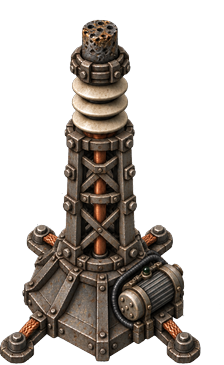
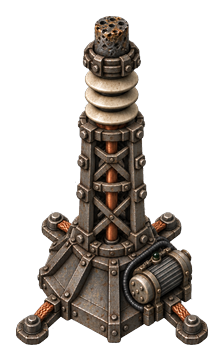
Arc mast: cut the plate to exactly 3.00 tiles so a row stops overlapping
The 3x3 box was necessary and not sufficient. 3.14 tiles of art on a 3
tile pitch still overlaps by 0.14 tiles -- about a quarter of a foot pad
-- and a second screenshot showed the pads still interleaving. Vanilla
tolerates 0.25 tiles on its collector because the overhang there is a
soft tapering skirt; ours is a pair of hard bolted pads, and two of
those interpenetrating reads as a bug however small the number is.

Measuring that turned up the real fault. v11-idle.png carries 95 columns
of near-invisible fringe down its right side, holding one speck above
alpha 20 and nothing else, and trimmed() cropped on getbbox(), which
counts any pixel with any alpha. The crop was 909 px wide where the
visible building was 814, so scaling onto a 224 px canvas put the mast
in 814/909 of the space and shoved it left:

  before  content x 0..201, centre 100.5 vs canvas centre 112,
          alpha 255 at x=0 -- the left foot cut off mid-bolt
  after   content x 16..208, centre 112.0, alpha 0 at both edges

That is why the whole overhang sat on one side and why the left foot had
no rim. solid_bbox() now requires a row or column to carry 8 pixels above
alpha 20 before it counts; a plain threshold will not do, since the
fringe holds a speck that survives any threshold. derive-glow.py carries
the same function because the glow placement is measured with it.

With the trim fixed the plate is cut to 192 source px -- exactly 3.00
[…]

diff --git a/tools/process-building-art.py b/tools/process-building-art.py
@@ -70,13 +70,47 @@ def dekey_checkerboard(im, tol=10):
     return im
 
 
-def trimmed(im):
-    """Crop to the alpha bounding box."""
+def solid_bbox(im, alpha=20, min_run=8):
+    """Bounding box of the content you can actually see.
+
+    `getbbox()` answers "any pixel with any alpha at all", and a generator's
+    output is not that clean: v11-idle.png carries 95 columns of fringe down its
+    right side holding a single speck above alpha 20 and nothing else. Cropping
+    to that squeezed the visible mast into 814/909 of its canvas and pushed it
+    hard against the left edge, where the foot pad was cut off mid-bolt at alpha
+    255 and the whole building drew 0.18 tiles left of its own tile.
+
+    So require a row or column to carry `min_run` pixels above `alpha` before it
+    counts as content. Thin real geometry is safe -- min_run is under 1% of a
+    plate's height -- and specks are not.
+    """
     if im.mode != "RGBA":
         im = im.convert("RGBA")
-    box = im.getchannel("A").getbbox()
+    a = im.getchannel("A")
+    w, h = a.size
+    px = a.load()
+    cols = [x for x in range(w)
+            if sum(1 for y in range(h) if px[x, y] > alpha) >= min_run]
+    rows = [y for y in range(h)
+            if sum(1 for x in range(w) if px[x, y] > alpha) >= min_run]
+    if not cols or not rows:
+        return None
+    return (cols[0], rows[0], cols[-1] + 1, rows[-1] + 1)
+
+
+def trimmed(im):
+    """Crop to the visible content, warning if that differs from the raw box."""
+    if im.mode != "RGBA":
+        im = im.convert("RGBA")
+    box = solid_bbox(im)
     if not box:
         sys.exit("the image is fully transparent -- nothing to process")
+    raw = im.getchannel("A").getbbox()
+    slack = max(abs(box[i] - raw[i]) for i in range(4))
+    if slack > 4:
+        print(f"  note  trimmed on visible content, not raw alpha: "
+              f"{raw[2] - raw[0]}x{raw[3] - raw[1]} -> "
+              f"{box[2] - box[0]}x{box[3] - box[1]} ({slack} px of fringe)")
     return im.crop(box)
 
 

diff --git a/tools/derive-glow.py b/tools/derive-glow.py
@@ -25,6 +25,28 @@ import sys
 from PIL import Image, ImageChops, ImageFilter
 
 
+def solid_bbox(im, alpha=20, min_run=8):
+    """Bounding box of the content you can actually see.
+
+    Must stay in step with process-building-art.py's copy: the placement this
+    measures has to be the one base.png was cut with, or the glow lands
+    somewhere the plate is not. See that file for why raw `getbbox()` is not
+    good enough.
+    """
+    if im.mode != "RGBA":
+        im = im.convert("RGBA")
+    a = im.getchannel("A")
+    w, h = a.size
+    px = a.load()
+    cols = [x for x in range(w)
+            if sum(1 for y in range(h) if px[x, y] > alpha) >= min_run]
+    rows = [y for y in range(h)
+            if sum(1 for x in range(w) if px[x, y] > alpha) >= min_run]
+    if not cols or not rows:
+        return None
+    return (cols[0], rows[0], cols[-1] + 1, rows[-1] + 1)
+
+
 def placement(im, width, height, top_margin):
     """Work out the trim/scale/offset to use, as numbers rather than a picture.
 
@@ -32,7 +54,7 @@ def placement(im, width, height, top_margin):
     is measured off still lands exactly where base.png did -- but returned
     instead of applied, so the lit plate can be given the identical transform.
     """
-    box = im.convert("RGBA").getchannel("A").getbbox()
+    box = solid_bbox(im)
     if not box:
         sys.exit("fully transparent input")
     tw, th = box[2] - box[0], box[3] - box[1]

diff --git a/graphics/building-spec-arc-mast.md b/graphics/building-spec-arc-mast.md
@@ -79,7 +79,8 @@ pack can exist before the surface has power.
 **Tile Size:**
 `3×3` selection over a `2.8×2.8` collision. Most of this building is still
 drawn above its footprint — the sprite is `3.5 × 5.4` tiles — but the *base
-plate* is 3.14 tiles across, and it has to fit between neighbours. See §13.
+plate* is cut to exactly 3.00 tiles across, so it is the width of its own box
+and a row of masts touches rather than overlaps. See §13.
 
 **Collision Box:**
 `[-1.4, -1.4] → [1.4, 1.4]`
@@ -90,13 +91,20 @@ plate* is 3.14 tiles across, and it has to fit between neighbours. See §13.
 **Why not the collector's 2×2, which this prototype deep-copies.** Because the
 art does not fit it. Vanilla's collector is 144 source px at its widest — 2.25
 tiles on a 2 tile pitch, a quarter tile of sloped leg overhanging, which reads
-fine. Ours is 201 px, 3.14 tiles, and in the first in-game test a row of masts
+fine. Ours was 3.14 tiles, and in the first in-game test a row of masts
 overlapped by more than a whole tile: each base plate visibly ate its
 neighbour's. The mast is meant to be a bigger machine than Fulgora's collector,
 so the box grew to meet the art rather than the art shrinking to meet the box.
-At a 3 tile pitch the plates just touch. Measured in-engine: the mast reports
-`tile_width 3`, three masts place at a 3 tile pitch, and a second mast 2 tiles
-from the first is refused.
+Measured in-engine: the mast reports `tile_width 3`, three masts place at a
+3 tile pitch, and a second mast 2 tiles from the first is refused.
+
+**A 3x3 box was necessary and not sufficient.** 3.14 tiles of art on a 3 tile
+pitch still overlaps -- by 0.14 tiles, about a quarter of a foot pad -- and a
+second screenshot showed the feet still interleaving. Vanilla tolerates 0.25
+tiles of overlap on its collector because the overhang there is a soft tapering
+skirt; ours is a pair of hard bolted pads, and two of those interpenetrating
+reads as a bug however small the number is. The plate is therefore cut to
+exactly 192 source px, 3.00 tiles, so the art is the width of the box.
 
 **Placement Restrictions:**
 None — no surface conditions, no resource requirement, no terrain restriction.
@@ -434,21 +442,22 @@ No inserter ever touches this building.
 
 | Flow | Location | Connection Type |
 | ---- | -------- | --------------- |
-| In — the strike | `[0, -4.14375]` — the electrode | `lightning_strike_offset` |
+| In — the strike | `[0, -3.8]` — the electrode | `lightning_strike_offset` |
 | Out — up to 40 MW | anywhere inside a pole's supply area | electric network |
 
 ### Hard geometric constraints
 
-**`lightning_strike_offset = {0, -4.14375}`.** The engine draws every arc
+**`lightning_strike_offset = {0, -3.8}`.** The engine draws every arc
 terminating that many tiles above the entity origin regardless of what the
 sprite looks like. If the painted tip is not at that height, arcs strike empty
 air or bury themselves in the column — once every ninety seconds per chunk, in
 front of the player, lit up. §13 converts this to a pixel row.
 
-This is **no longer the inherited `-4.8`.** It moved with the plate: the shift
-came down by 0.65625 tiles (see §13), so the strike row came down by exactly
-the same amount. The two numbers are locked together and neither can be changed
-alone.
+This is **no longer the inherited `-4.8`.** It is measured off the plate, not
+carried over: the electrode cage spans `-4.23` to `-3.38` tiles from the origin
+and `-3.8` is the middle of it. Vanilla's `-4.8` would put the bolt a full tile
+above the mast, terminating in open air. Re-cut the plate and this number has to
+be re-derived with it.
 
 `drawing_box_vertical_extension = 4.5` is inherited and must not change; the art
 is fitted to it, not the other way round.
@@ -761,13 +770,16 @@ proportion never needed forcing.
 
 **Building Width:** `3.5` tiles → `112` in-game px → `224` source px
 
-**Building Height:** `5.45` tiles → `175` in-game px → `349` source px
+**Building Height:** `5.14` tiles → `164` in-game px → `329` source px
 
-**Sprite Width / Height:** `224 × 365` source px — the object is 224 × 349 with
-16 source px of headroom above the tip, which is where the corona and the top
-of the charge flare live.
+**Sprite Width / Height:** `224 × 345` source px — the object is 192 × 329,
+centred, with 16 source px of headroom above the tip and 16 px of margin either
+side. The width is the load-bearing number: 192 px at scale 0.5 is exactly 3.00
+tiles, which is exactly the selection box, so neighbouring masts touch and never
+overlap. The side margins are what keep the plate off the canvas edge; do not
+trim them away.
 
-**Shift:** `util.by_pixel(0, -60)`.
+**Shift:** `util.by_pixel(0, -57)`.
 
 **This was `-81` and it was wrong.** `-81` was derived from the tip, and the tip
 is the one landmark that cannot anchor a sprite: it fixed the top of the
@@ -779,19 +791,19 @@ selection box drawn in bare ground beneath it.
 Measured off `base.png`: the plate spans source rows 225–363, so its centre sits
 55.8 in-game px below the canvas centre. Vanilla's collector puts its own plate
 centre at `-0.133` tiles from the origin; matching that gives
-`shift = -60 in-game px = -1.875 tiles`. The whole plate came down 0.65625 tiles.
+`shift = -57 in-game px = -1.78125 tiles`.
 
-**The strike row moves with it.** With the shift at `-60`, the electrode cage
-spans `-4.43` to `-3.79` tiles from the origin, so the strike belongs at
-`-4.14375` — vanilla's `-4.8` plus the same 0.65625 the plate moved. See §12.
+**The strike row comes off the same plate.** The electrode cage spans `-4.23`
+to `-3.38` tiles from the origin, so the strike belongs at `-3.8`. See §12. Both
+numbers are derived from the plate, so both change together when it is re-cut.
 
-**Spritesheet Width / Height:** `1792 × 1095` px, for charge and discharge alike
+**Spritesheet Width / Height:** `1792 × 1035` px, for charge and discharge alike
 
 **Frame Count:** `1` picture · `1` shadow · `19` charge · `24` discharge
 
 **Line Length:** `8` — 19 frames fill 8+8+3, 24 fill 8+8+8
 
-Glow frames are `224 × 365` — the same canvas as `base.png`, deliberately. An
+Glow frames are `224 × 345` — the same canvas as `base.png`, deliberately. An
 earlier plan gave them their own tighter canvas; sharing one is what makes the
 registration checkable, since any offset between a glow frame and the plate is
 then a straight pixel comparison. See §19, "The registration bug".
@@ -808,16 +820,16 @@ graphics/
     └── arc-mast/
         ├── concept/            generated concepts, not shipped
         ├── base.png            224×365, the whole machine, unlit
-        ├── shadow.png          512×365, draw_as_shadow, its own wider canvas
-        ├── charge.png          1792×1095, 19 frames, additive glow
-        └── discharge.png       1792×1095, 24 frames, additive glow
+        ├── shadow.png          496×345, draw_as_shadow, its own wider canvas
+        ├── charge.png          1792×1035, 19 frames, additive glow
+        └── discharge.png       1792×1035, 24 frames, additive glow
 ```
 
 Four plates and no `working.png`: this building has no moving parts, so its
 entire animation is emissive light and the two glow sheets *are* the working
 layers. **The shadow gets its own canvas** — a five-tile tower's shadow does not
-fit inside a 224 px plate, so it is 512 px wide, anchored left, and offset right
-by half the extra width (`shift = {2.25, -1.875}`). It needs no *extra rows*:
+fit inside a 224 px plate, so it is 496 px wide, anchored left, and offset right
+by half the extra width (`shift = {2.125, -1.78125}`). It needs no *extra rows*:
 the shadow lies flat and leans up and to the right, away from the camera, so it
 never reaches below the plate's own bottom edge.
 
@@ -842,17 +854,17 @@ mast.chargable_graphics =
         filename = "__space-age-extended__/graphics/entity/arc-mast/base.png",
         priority = "high",
         width = 224,
-        height = 365,
-        shift = util.by_pixel(0, -60),
+        height = 345,
+        shift = util.by_pixel(0, -57),
         scale = 0.5
       },
       {
         filename = "__space-age-extended__/graphics/entity/arc-mast/shadow.png",
         priority = "high",
         draw_as_shadow = true,
-        width = 512,
-        height = 365,
-        shift = util.by_pixel(72, -60),
+        width = 496,
+        height = 345,
+        shift = util.by_pixel(68, -57),
         scale = 0.5
       }
     }
@@ -867,10 +879,10 @@ mast.chargable_graphics =
         blend_mode = "additive",
         draw_as_glow = true,
         width = 224,
-        height = 365,
+        height = 345,
         frame_count = 19,
         line_length = 8,
-        shift = util.by_pixel(0, -60),
+        shift = util.by_pixel(0, -57),
         scale = 0.5
       }
     }
@@ -887,10 +899,10 @@ mast.chargable_graphics =
         blend_mode = "additive",
         draw_as_glow = true,
         width = 224,
-        height = 365,
+        height = 345,
         frame_count = 24,
         line_length = 8,
-        shift = util.by_pixel(0, -60),
+        shift = util.by_pixel(0, -57),
         scale = 0.5
       }
     }
@@ -914,8 +926,8 @@ Not applicable to lightning-attractor. Charge and discharge are the whole of it.
 
 Lights:
 None. drawing_box_vertical_extension = 4.5 is inherited and must not change.
-lightning_strike_offset is NOT inherited any more: it is {0, -4.14375}, and it
-is tied to the picture shift. Move one and you move the other. See §12.
+lightning_strike_offset is NOT inherited any more: it is {0, -3.8}, measured
+off the plate. Re-cut the plate and re-derive it. See §12.
 
 Fluid Boxes:
 None.
@@ -1052,8 +1064,12 @@ geometry against the selection brackets, the sprite plates against each other.
 None of them are visible in a PNG viewer.
 
 **1. The sprite was 3.14 tiles wide on a 2 tile pitch.** A row of masts
-overlapped by more than a tile. Fixed by growing the box, not shrinking the art
-— §2 has the reasoning and the in-engine verification.
+overlapped by more than a tile. Fixed by growing the box to 3x3 — §2 has the
+reasoning and the in-engine verification — and then, after a second screenshot
+showed the feet still interleaving, by cutting the plate to exactly 3.00 tiles
+so the art is the width of the box. See "The fringe bug" below: the plate could
+not be centred until the trim was fixed, and until it was centred the whole
+overhang sat on one side.
 
 **2. The glow sheets sat 6 px right and 8 px above the plate.** See "The
 registration bug" below.
@@ -1074,6 +1090,39 @@ do not look at it.** It now extends past the plate to the running game. A
 screen recording plus the selection brackets as a ruler is enough — the
 brackets are a known 2 or 3 tiles, which calibrates pixels to tiles, and every
 other geometry claim follows from that.
+
+## The fringe bug
+
+The 3x3 box fixed the gross overlap and a second screenshot still showed the
+foot pads interleaving. Measuring it turned up two more faults in the same
+plate, both from one cause.
+
+`v11-idle.png` carries 95 columns of near-invisible fringe down its right side —
+they hold a single speck above alpha 20 and nothing else — and `trimmed()`
+cropped on `getbbox()`, which counts any pixel with any alpha at all. So the
+crop was 909 px wide when the visible building was 814. Scaled onto a 224 px
+canvas, that put the mast in 814/909 of the space and pushed it hard left:
+
+```text
+before   visible content x 0..201, centre 100.5 against a canvas centre of 112
+         alpha at x=0 is 255 -- the left foot pad cut off mid-bolt, no rim
+after    visible content x 16..208, centre 112.0, alpha 0 at both edges
+```
+
+Two symptoms, one cause. The building drew 0.18 tiles left of its own tile, so
+the whole 0.14 tile overhang landed on one side and read as much worse than the
+number suggests; and the left foot was clipped flat against the canvas edge.
+
+`solid_bbox()` now requires a row or column to carry at least 8 pixels above
+alpha 20 before it counts as content. A plain alpha threshold is not enough —
+the fringe holds a speck that survives any threshold — so it is the *count* that
+does the work. `derive-glow.py` carries the same function, and it has to: the
+glow's placement is measured with it, so if the two disagree the glow lands
+somewhere the plate is not.
+
+**Check both, on every plate.** Is the visible content centred in its canvas,
+and is the alpha zero at all four edges? Neither is visible in a viewer and both
+are one line to measure.
 
 ## The registration bug
 

diff --git a/graphics/building-spec-template.md b/graphics/building-spec-template.md
@@ -1004,6 +1004,15 @@ geometry that will not line up with the base plate. Instead:
    measured off the **unlit** plate and applied to both, then they are
    subtracted. The difference *is* the light.
 
+**Trim on what you can see, not on `getbbox()`.** A generator leaves fringe:
+`v11-idle.png` had 95 columns down one side holding a single speck above alpha
+20 and nothing else. Cropping to the raw alpha box squeezed the building into
+814/909 of its canvas, off-centre and clipped flat at the edge. Require a row or
+column to carry a handful of pixels above a real alpha before it counts as
+content — `solid_bbox()` in both art tools — and then check the two things that
+follow: **the visible content is centred in its canvas, and the alpha is zero at
+all four edges.** Neither shows up in a viewer; both are one line to measure.
+
 **Registration is the thing to check, and "same canvas" does not give it to
 you.** The tool used to trim each plate to its own alpha bounding box; a lit
 render blooms past the metal, so its box is bigger, and the two ended up on
@@ -1050,9 +1059,13 @@ point can be verified locally; the in-game pass — scale on the ground, selecti
 box, engine-drawn effects landing where the art says, shadow against
 neighbours — cannot.
 
-**Record it, and measure the recording.** The arc mast passed every local check
-and still shipped four geometry defects, all of them found by pulling frames
-out of a screen capture. The selection brackets are the ruler: they are a known
+**Record it, and measure the recording — then do it again after the fix.** The
+arc mast passed every local check and still shipped four geometry defects, all
+of them found by pulling frames out of a screen capture. The fix for the worst
+of them was itself incomplete, and only a second screenshot showed it: the box
+had been grown to fit the art, but the art was 3.14 tiles against a 3 tile box
+and still overlapped. Sizing art to a box means making the number *equal*, not
+close. The selection brackets are the ruler: they are a known
 number of tiles wide, which calibrates screen pixels to tiles, and every claim
 about sprite size, overlap and shift follows from that. Place at least three of
 the building in a row — a single one hides overlap entirely.
